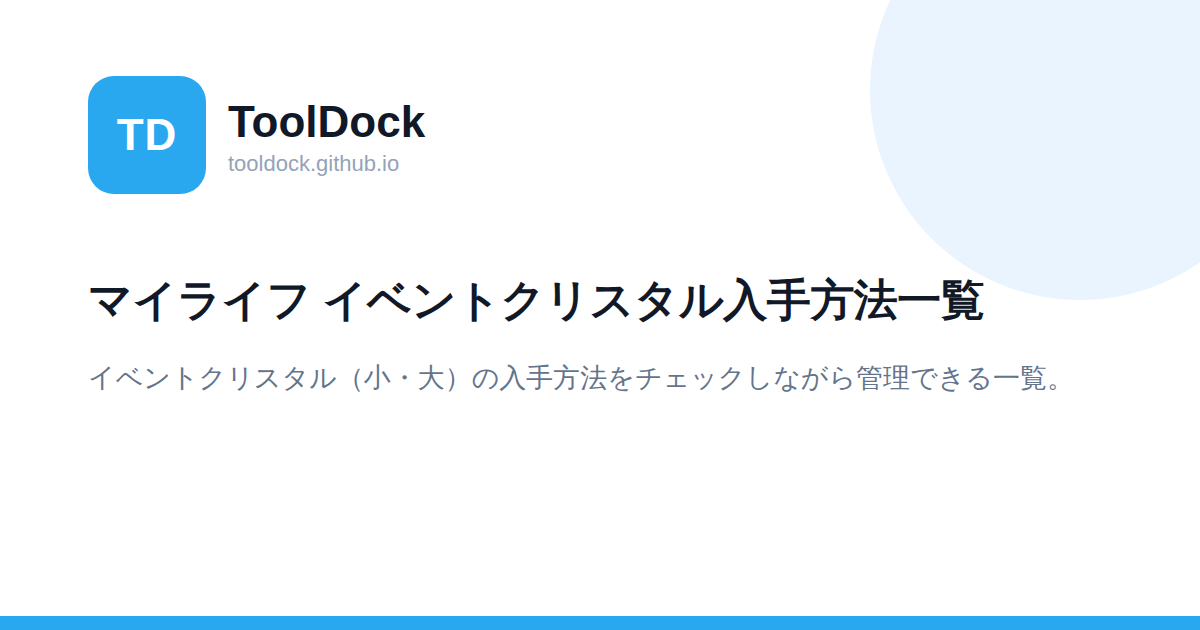
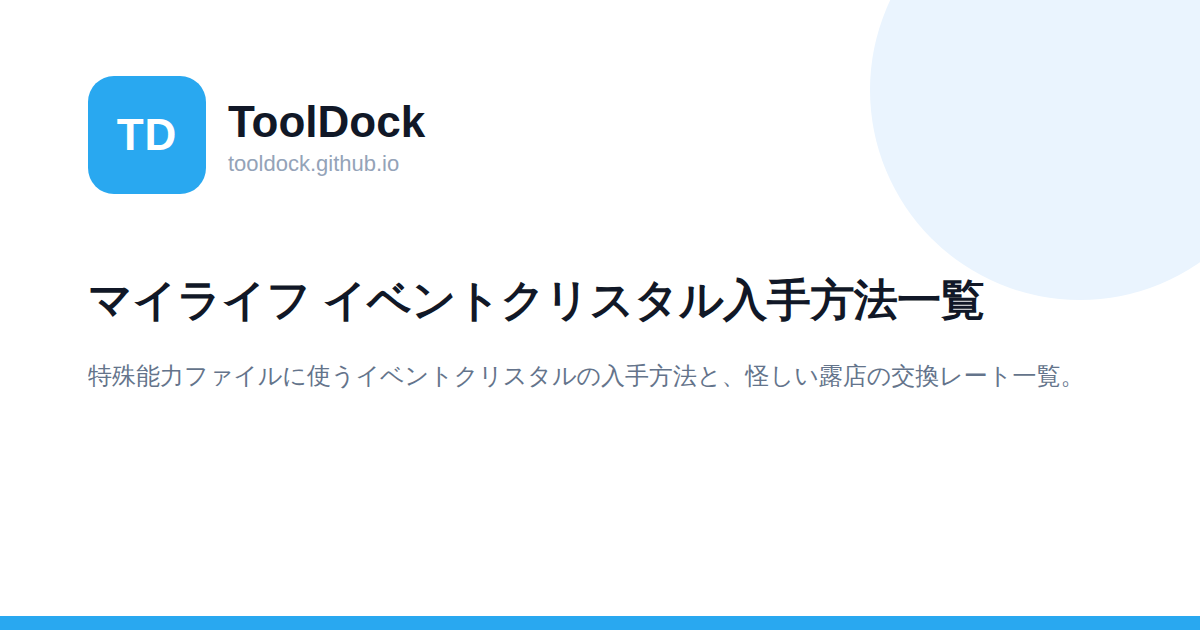
crystal に用途・怪しい露店の行き方・交換レートを追加する (#28)
・イベントクリスタルの用途を書いた
  特殊能力ファイルをクリアするための必要素材で、
  ファイルごとにはめ込める種類が決まっている。
  用途が分からないままだったので冒頭に置いた。

・交換レートの表を追加した（15種類）
  「小3個と交換」と書いていたが、これは不正確だった。
  実際は種類によって2〜5個。万能が2個、記録・イベント系が3個、
  練習・連係練習・対決記録が4個、球場トロフィーが5個。
  チェックリストの露店の行も、種類で変わる形に直した。

・怪しい露店の行き方を書いた
  夜に商店街へ行くと「？？？？？？？」が出る。昼には出ない。
  場所が分からないと交換自体ができないので独立した見出しにした。

・2024-2025とは違いがないと見られる旨を書いた

タイトルと説明文も、用途と交換レートが検索語として
拾えるものに変えた。よくある質問を3問足して7問にし、
構造化データにも同じ内容を入れた。

Claude-Session: https://claude.ai/code/session_01SKh1jhAp32CEmbZCaaEmgk

Changed region(s): [[0.0617, 0.573, 0.8942, 0.6333]]

diff --git a/crystal/index.html b/crystal/index.html
@@ -6,8 +6,8 @@
 
 <!-- 検索結果で切られる先頭30字ほどに、探している語と件数を入れる。
      サイト名は付けない（この長さでは席がもったいない） -->
-<title>マイライフ イベントクリスタルの入手方法｜小・大の全14種（パワプロ2026-2027）</title>
-<meta name="description" content="パワプロのマイライフで、イベントクリスタル（小）と（大）を入手する方法の一覧です。趣味の大会、喫茶店通い、施設のレベル上げ、初回限定のものまで全14種をまとめ、チェックを付けて取り済みを管理できます。夜の商店街の怪しい露店で小3個を大1個に交換する方法も掲載。">
+<title>マイライフ イベントクリスタル入手方法と交換レート｜特殊能力ファイル（パワプロ2026-2027）</title>
+<meta name="description" content="パワプロのマイライフで、特殊能力ファイルに使うイベントクリスタルの入手方法と交換レートの一覧です。（小）11通り・（大）3通りの入手方法をチェックしながら管理でき、夜の商店街の「怪しい露店」で（小）何個が（大）1個になるかを種類別15件でまとめています。2024-2025と2026-2027で違いはないと見られます。">
 <link rel="canonical" href="https://tooldock.github.io/crystal/">
 
 <script> const CURRENT_TOOL = "crystal"; </script>
@@ -153,6 +153,62 @@ main{
     cursor:pointer;
 }
 
+
+/* =========================
+   交換レート表
+========================= */
+
+.rate{
+    background:#fff;
+    border-radius:12px;
+    box-shadow:0 2px 8px rgba(0,0,0,.08);
+    margin-top:22px;
+    padding:18px;
+}
+
+.rate h2{
+    margin:0 0 4px;
+    font-size:1.2rem;
+    color:#111;
+}
+
+.rate p.lead{
+    margin:0 0 14px;
+    font-size:14px;
+    color:#555;
+}
+
+.rate table{
+    width:100%;
+    border-collapse:collapse;
+    font-size:15px;
+}
+
+.rate th,
+.rate td{
+    border-bottom:1px solid #eee;
+    padding:9px 10px;
+    text-align:left;
+}
+
+.rate thead th{
+    background:#f8fafc;
+    color:#334155;
+    font-size:14px;
+    white-space:nowrap;
+}
+
+.rate td.cost{
+    width:8em;
+    white-space:nowrap;
+    font-weight:700;
+}
+
+.rate tr[data-cost="2"] td.cost{ color:#15803d; }
+.rate tr[data-cost="3"] td.cost{ color:#1d4ed8; }
+.rate tr[data-cost="4"] td.cost{ color:#b45309; }
+.rate tr[data-cost="5"] td.cost{ color:#b91c1c; }
+
 /* =========================
    一覧
 ========================= */
@@ -245,7 +301,7 @@ main{
 
 <header>
     <h1>マイライフ イベントクリスタル 入手方法一覧</h1>
-    <p>イベントクリスタル（小）と（大）の入手方法をまとめました。チェックは自動で保存されます</p>
+    <p>特殊能力ファイルに使うイベントクリスタルの入手方法と交換レート。チェックは自動で保存されます</p>
 </header>
 
 <main>
@@ -278,6 +334,38 @@ main{
 
 <div class="list" id="list"></div>
 
+<section class="rate">
+    <h2>クリスタル大の交換レート</h2>
+    <p class="lead">
+    夜の商店街の「怪しい露店」で、イベントクリスタル（小）を（大）に交換できます。
+    必要な個数は（大）の種類によって2〜5個と変わります。
+    </p>
+
+    <table>
+      <thead>
+        <tr><th>クリスタル大の種類</th><th>必要な（小）の数</th></tr>
+      </thead>
+      <tbody>
+        <tr data-cost="2"><td>クリスタル大／万能</td><td class="cost">（小）2個</td></tr>
+        <tr data-cost="3"><td>クリスタル大／シーズン記録</td><td class="cost">（小）3個</td></tr>
+        <tr data-cost="3"><td>クリスタル大／通算記録</td><td class="cost">（小）3個</td></tr>
+        <tr data-cost="3"><td>クリスタル大／イベント</td><td class="cost">（小）3個</td></tr>
+        <tr data-cost="3"><td>クリスタル大／趣味</td><td class="cost">（小）3個</td></tr>
+        <tr data-cost="3"><td>クリスタル大／愛</td><td class="cost">（小）3個</td></tr>
+        <tr data-cost="3"><td>クリスタル大／ミッション</td><td class="cost">（小）3個</td></tr>
+        <tr data-cost="3"><td>クリスタル大／おでかけ</td><td class="cost">（小）3個</td></tr>
+        <tr data-cost="3"><td>クリスタル大／タイトル</td><td class="cost">（小）3個</td></tr>
+        <tr data-cost="3"><td>クリスタル大／チームメイト</td><td class="cost">（小）3個</td></tr>
+        <tr data-cost="3"><td>クリスタル大／引退選手</td><td class="cost">（小）3個</td></tr>
+        <tr data-cost="4"><td>クリスタル大／練習</td><td class="cost">（小）4個</td></tr>
+        <tr data-cost="4"><td>クリスタル大／連係練習</td><td class="cost">（小）4個</td></tr>
+        <tr data-cost="4"><td>クリスタル大／対決記録</td><td class="cost">（小）4個</td></tr>
+        <tr data-cost="5"><td>クリスタル大／球場トロフィー</td><td class="cost">（小）5個</td></tr>
+      </tbody>
+    </table>
+</section>
+
+
 </main>
 
 </div>
@@ -285,26 +373,45 @@ main{
 
 <article class="tool-article">
 
-<h2>イベントクリスタルの入手方法</h2>
+<h2>イベントクリスタルは何に使うのか</h2>
+
+<p>
+<strong>特殊能力ファイルをクリアするための必要素材</strong>です。
+特殊能力ファイルには、はめ込むクリスタルの種類が決まっています。
+たとえば「対ランナー○」のファイルなら
+<strong>クリスタル大／対決記録</strong>をはめ込む、といった具合です。
+</p>
+
+<p>
+狙っている特殊能力が決まっているなら、
+そのファイルが要求する種類の（大）を用意することになります。
+種類ごとに必要な（小）の数が違うので、
+上の交換レート表で先に確認しておくと無駄がありません。
+</p>
 
 <p>
 このページは据え置き機の実況パワフルプロ野球2026-2027のマイライフを対象としています。
 スマートフォンの「パワプロアプリ」とは別のものです。
+2024-2025とは内容に違いがないと見られます。
+</p>
+
+<h2>怪しい露店の行き方</h2>
+
+<p>
+（大）を直接もらえる機会は限られているので、
+実際にはここで交換するのが中心になります。
 </p>
 
 <p>
-イベントクリスタルには（小）と（大）があります。
-（小）は11通り、（大）は3通りの入手方法をまとめました。
-上の一覧はチェックを付けて取り済みを管理でき、
-種類での絞り込みと、入手方法の検索ができます。
+<strong>夜に商店街へ行くと「？？？？？？？」という項目が出ます。</strong>
+これを選ぶと怪しい露店を訪れることができます。
+昼には出ないので、夜に行ってください。
 </p>
 
-<h2>小3個を大1個に交換できる</h2>
-
 <p>
-（大）を直接もらえる機会は限られています。
-確実なのは、<strong>夜の商店街にある「怪しい露店」で、
-イベントクリスタル（小）3個と交換する</strong>方法です。
+交換に必要な（小）の数は種類によって2〜5個です。
+いちばん安いのは<strong>万能の2個</strong>、いちばん高いのは
+<strong>球場トロフィーの5個</strong>になります。
 （小）を集める手段のほうが多いので、
 （大）が必要なときはまず（小）を貯めるほうが早いことになります。
 </p>
@@ -354,6 +461,20 @@ main{
 
 <h2>よくある質問</h2>
 
+<p><strong>Q. イベントクリスタルは何に使いますか？</strong><br>
+A. 特殊能力ファイルをクリアするための必要素材です。
+ファイルごとにはめ込めるクリスタルの種類が決まっています。</p>
+
+<p><strong>Q. 怪しい露店はどこにありますか？</strong><br>
+A. 夜に商店街へ行くと「？？？？？？？」という項目が出ます。
+これを選ぶと訪れることができます。昼には出ません。</p>
+
+<p><strong>Q. クリスタル大の交換レートを教えてください。</strong><br>
+A. 種類によって（小）2〜5個です。万能が2個、
+シーズン記録・通算記録・イベント・趣味・愛・ミッション・おでかけ・タイトル・
+チームメイト・引退選手が3個、練習・連係練習・対決記録が4個、
+球場トロフィーが5個です。</p>
+
 <p><strong>Q. イベントクリスタル（大）はどうやって手に入れますか？</strong><br>
 A. 3通りあります。夜の商店街の「怪しい露店」で（小）3個と交換する方法、
 施設の「牧場」がレベル最大のときに虹の仮面と交換する方法、
@@ -401,7 +522,7 @@ const rows = [
   { size: "小", how: "評価の高い引退選手からもらう",                     note: "" },
   { size: "小", how: "チームメイトにプレゼントした本で特殊能力が変化する", note: "" },
 
-  { size: "大", how: "夜の商店街の「怪しい露店」で（小）3個と交換する",   note: "イベントクリスタル（小）3個が必要" },
+  { size: "大", how: "夜の商店街の「怪しい露店」で（小）と交換する",       note: "種類によって（小）2〜5個。下の交換レート表を参照" },
   { size: "大", how: "施設の「牧場」がレベル最大のとき虹の仮面と交換する", note: "牧場レベル最大" },
   { size: "大", how: "チームメイトにプレゼントした本で特殊能力が変化する", note: "プレゼントの必要回数が多いもの" }
 ];
@@ -526,10 +647,34 @@ render();
   "mainEntity": [
     {
       "@type": "Question",
+      "name": "マイライフのイベントクリスタルは何に使いますか？",
+      "acceptedAnswer": {
+        "@type": "Answer",
+        "text": "特殊能力ファイルをクリアするための必要素材です。特殊能力ファイルごとに、はめ込めるクリスタルの種類が決まっています。たとえば「対ランナー○」のファイルにはクリスタル大／対決記録をはめ込みます。"
+      }
+    },
+    {
+      "@type": "Question",
+      "name": "怪しい露店はどこにありますか？",
+      "acceptedAnswer": {
+        "@type": "Answer",
+        "text": "夜に商店街へ行くと「？？？？？？？」という項目が表示されます。これを選ぶと怪しい露店を訪れることができます。昼には表示されません。"
+      }
+    },
+    {
+      "@type": "Question",
+      "name": "クリスタル大の交換レートを教えてください。",
+      "acceptedAnswer": {
+        "@type": "Answer",
+        "text": "イベントクリスタル（小）が種類によって2〜5個必要です。万能が2個。シーズン記録・通算記録・イベント・趣味・愛・ミッション・おでかけ・タイトル・チームメイト・引退選手が3個。練習・連係練習・対決記録が4個。球場トロフィーが5個です。"
+      }
+    },
+    {
+      "@type": "Question",
       "name": "マイライフのイベントクリスタル（大）はどうやって手に入れますか？",
       "acceptedAnswer": {
         "@type": "Answer",
-        "text": "3通りあります。夜の商店街の「怪しい露店」でイベントクリスタル（小）3個と交換する方法、施設の「牧場」がレベル最大のときに虹の仮面と交換する方法、チームメイトにプレゼントした本で特殊能力が変化したとき（プレゼントの必要回数が多いもの）です。"
+        "text": "3通りあります。夜の商店街の「怪しい露店」でイベントクリスタル（小）2〜5個と交換する方法（必要数は種類による）、施設の「牧場」がレベル最大のときに虹の仮面と交換する方法、チームメイトにプレゼントした本で特殊能力が変化したとき（プレゼントの必要回数が多いもの）です。"
       }
     },
     {

diff --git a/js/tool-data.js b/js/tool-data.js
@@ -308,9 +308,9 @@ window.TOOLS = [
   {
     id: "crystal",
     title: "マイライフ イベントクリスタル入手方法一覧",
-    desc: "イベントクリスタル（小・大）の入手方法をチェックしながら管理できる一覧。",
-    seoTitle: "マイライフ イベントクリスタルの入手方法｜小・大の全14種（パワプロ2026-2027）",
-    seoDesc: "パワプロのマイライフで、イベントクリスタル（小）と（大）を入手する方法の一覧です。趣味の大会、喫茶店通い、施設のレベル上げ、初回限定のものまで全14種をまとめ、チェックを付けて取り済みを管理できます。夜の商店街の怪しい露店で小3個を大1個に交換する方法も掲載。",
+    desc: "特殊能力ファイルに使うイベントクリスタルの入手方法と、怪しい露店の交換レート一覧。",
+    seoTitle: "マイライフ イベントクリスタル入手方法と交換レート｜特殊能力ファイル（パワプロ2026-2027）",
+    seoDesc: "パワプロのマイライフで、特殊能力ファイルに使うイベントクリスタルの入手方法と交換レートの一覧です。（小）11通り・（大）3通りの入手方法をチェックしながら管理でき、夜の商店街の「怪しい露店」で（小）何個が（大）1個になるかを種類別15件でまとめています。2024-2025と2026-2027で違いはないと見られます。",
     category: "game",
     url: "/crystal/"
   },
